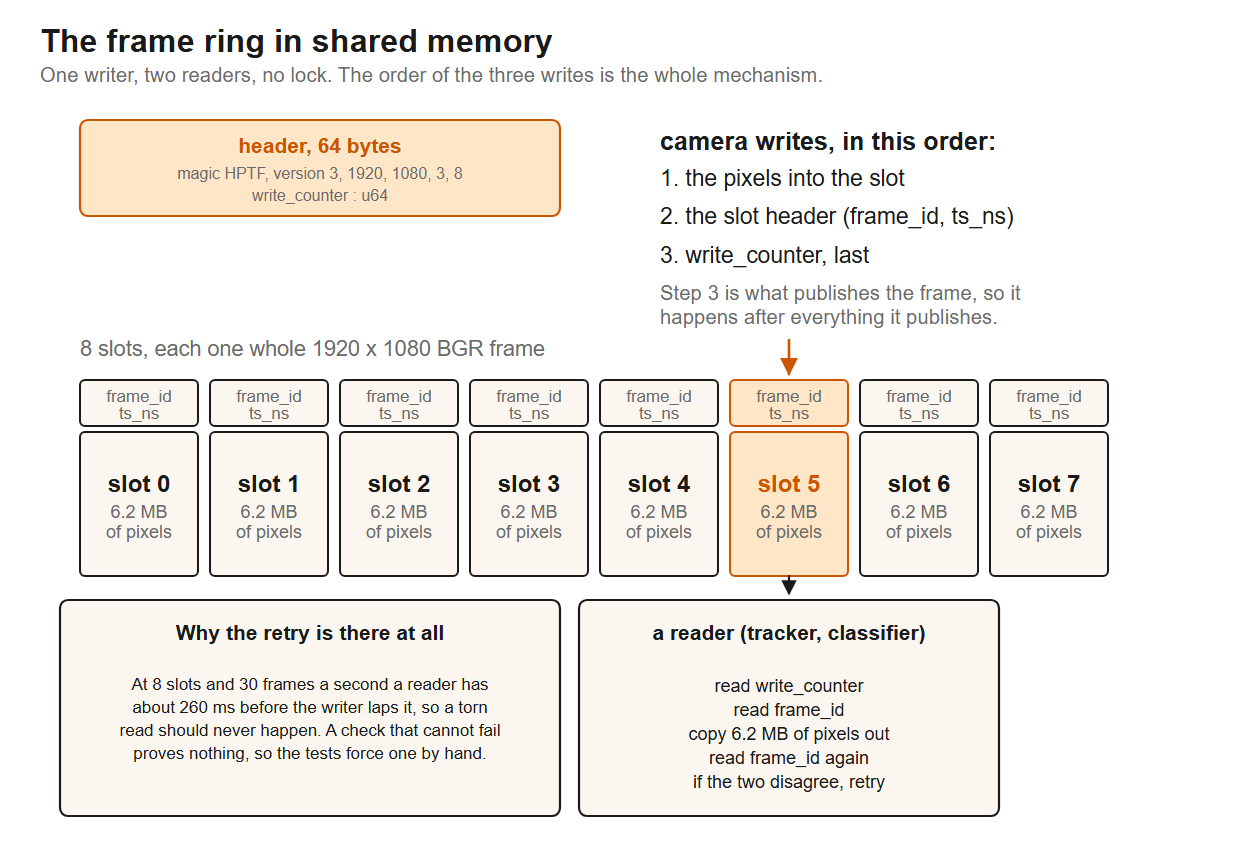
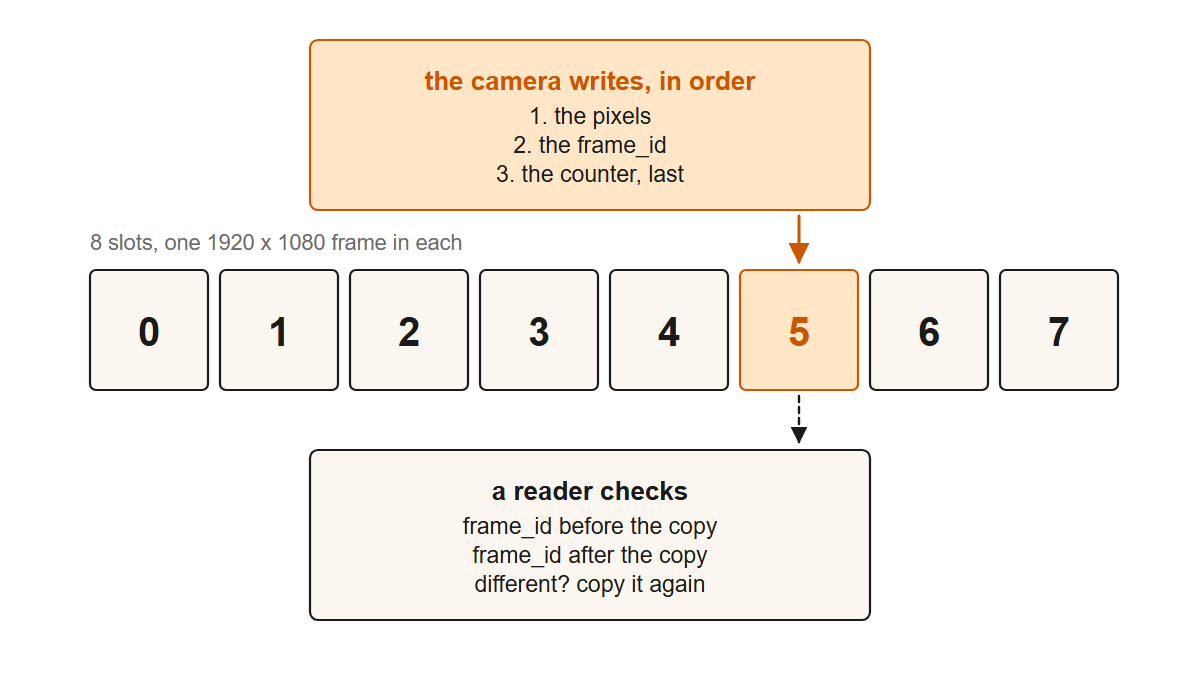
Strip the frame ring diagram back to the two orders
Eight slots, three writes, one check. The header layout, the byte
counts and the paragraph about why the retry exists are all gone -
the words that explain them are already in the text beside it.

diff --git a/tools/render_diagrams.py b/tools/render_diagrams.py
@@ -355,66 +355,41 @@ def drain():
 
 # ------------------------------------------------------------------ 3. the ring
 def ring():
-    W, H = 1240, 850
-    s = Svg(W, H, "The frame ring in shared memory",
-            "One writer, two readers, no lock. The order of the three writes is the whole mechanism.")
+    W, H = 1180, 680
+    s = Svg(W, H)
 
-    s.box(80, 120, 480, 96, ["header,  64 bytes",
-                             "magic HPTF, version 3, 1920, 1080, 3, 8",
-                             "write_counter : u64"],
-          fill=ACCENT_FILL, stroke=ACCENT, head_fill=ACCENT, body_size=16)
+    BX, BW = 310, 560
 
-    s.text(660, 150, "camera writes, in this order:", 21, INK, weight="bold")
-    s.caption(660, 186, [
-        "1.  the pixels into the slot",
-        "2.  the slot header (frame_id, ts_ns)",
-        "3.  write_counter, last",
-    ], 19, INK, gap=32)
-    s.text(660, 300, "Step 3 is what publishes the frame, so it", 17, MUTED)
-    s.text(660, 324, "happens after everything it publishes.", 17, MUTED)
+    s.box(BX, 40, BW, 170,
+          ["the camera writes, in order",
+           "1.  the pixels",
+           "2.  the frame_id",
+           "3.  the counter, last"],
+          fill=ACCENT_FILL, stroke=ACCENT, head_fill=ACCENT,
+          head_size=26, body_size=23, body_fill=INK)
 
-    sx, sy, sw_, sh = 80, 380, 118, 150
+    sx, sy, sw_, sh, gap = 90, 270, 118, 120, 12
+    wx = sx + 5 * (sw_ + gap) + sw_ / 2          # the slot being written
+
+    s.text(sx, 250, "8 slots, one 1920 x 1080 frame in each", 18, MUTED)
+    s.line(wx, 216, wx, 262, stroke=ACCENT, sw=3.0, arrow="ao")
+
     for i in range(8):
-        x = sx + i * (sw_ + 12)
-        fill = PANEL if i != 5 else ACCENT_FILL
-        st = INK if i != 5 else ACCENT
-        s.rect(x, sy, sw_, 46, fill=fill, stroke=st, sw=2.0, rx=5)
-        s.text(x + sw_ / 2, sy + 22, "frame_id", 14, MUTED, anchor="middle")
-        s.text(x + sw_ / 2, sy + 39, "ts_ns", 14, MUTED, anchor="middle")
-        s.rect(x, sy + 52, sw_, sh - 6, fill=fill, stroke=st, sw=2.0, rx=5)
-        s.text(x + sw_ / 2, sy + 112, f"slot {i}", 20, st, anchor="middle",
-               weight="bold")
-        s.text(x + sw_ / 2, sy + 138, "6.2 MB", 15, MUTED, anchor="middle")
-        s.text(x + sw_ / 2, sy + 158, "of pixels", 15, MUTED, anchor="middle")
+        x = sx + i * (sw_ + gap)
+        hot = i == 5
+        s.rect(x, sy, sw_, sh, fill=ACCENT_FILL if hot else PANEL,
+               stroke=ACCENT if hot else INK, sw=2.2, rx=6)
+        s.text(x + sw_ / 2, sy + 76, str(i), 40, ACCENT if hot else INK,
+               anchor="middle", weight="bold", scale=1)
 
-    s.text(80, 356, "8 slots, each one whole 1920 x 1080 BGR frame", 18, MUTED)
+    s.line(wx, sy + sh + 6, wx, 442, sw=2.4, dash="6 5", arrow="a")
 
-    wx = sx + 5 * (sw_ + 12) + sw_ / 2
-    s.line(wx, 340, wx, 374, stroke=ACCENT, sw=2.6, arrow="ao")
-
-    ry = 600
-    # centred on slot 5 so the read arrow drops straight down
-    rdx = wx - 210
-    s.box(rdx, ry, 420, 216,
-          ["a reader (tracker, classifier)",
-           "",
-           "read write_counter",
-           "read frame_id",
-           "copy 6.2 MB of pixels out",
-           "read frame_id again",
-           "if the two disagree, retry"],
-          head_size=21, body_size=18, body_fill=INK, top=ry + 40)
-    s.line(wx, sy + 196, wx, ry - 6, stroke=INK, sw=2.2, arrow="a", dash="6 5")
-
-    # to the left of the reader, in the space it used to sit in
-    s.box(60, ry, 500, 216,
-          ["Why the retry is there at all",
-           "",
-           "At 8 slots and 30 frames a second a reader has",
-           "about 260 ms before the writer laps it, so a torn",
-           "read should never happen. A check that cannot fail",
-           "proves nothing, so the tests force one by hand."],
-          head_size=21, body_size=17, body_fill=INK, top=ry + 40)
+    s.box(BX, 450, BW, 170,
+          ["a reader checks",
+           "frame_id before the copy",
+           "frame_id after the copy",
+           "different?  copy it again"],
+          head_size=26, body_size=23, body_fill=INK)
 
     s.save("architecture-frame-ring.svg")
 
